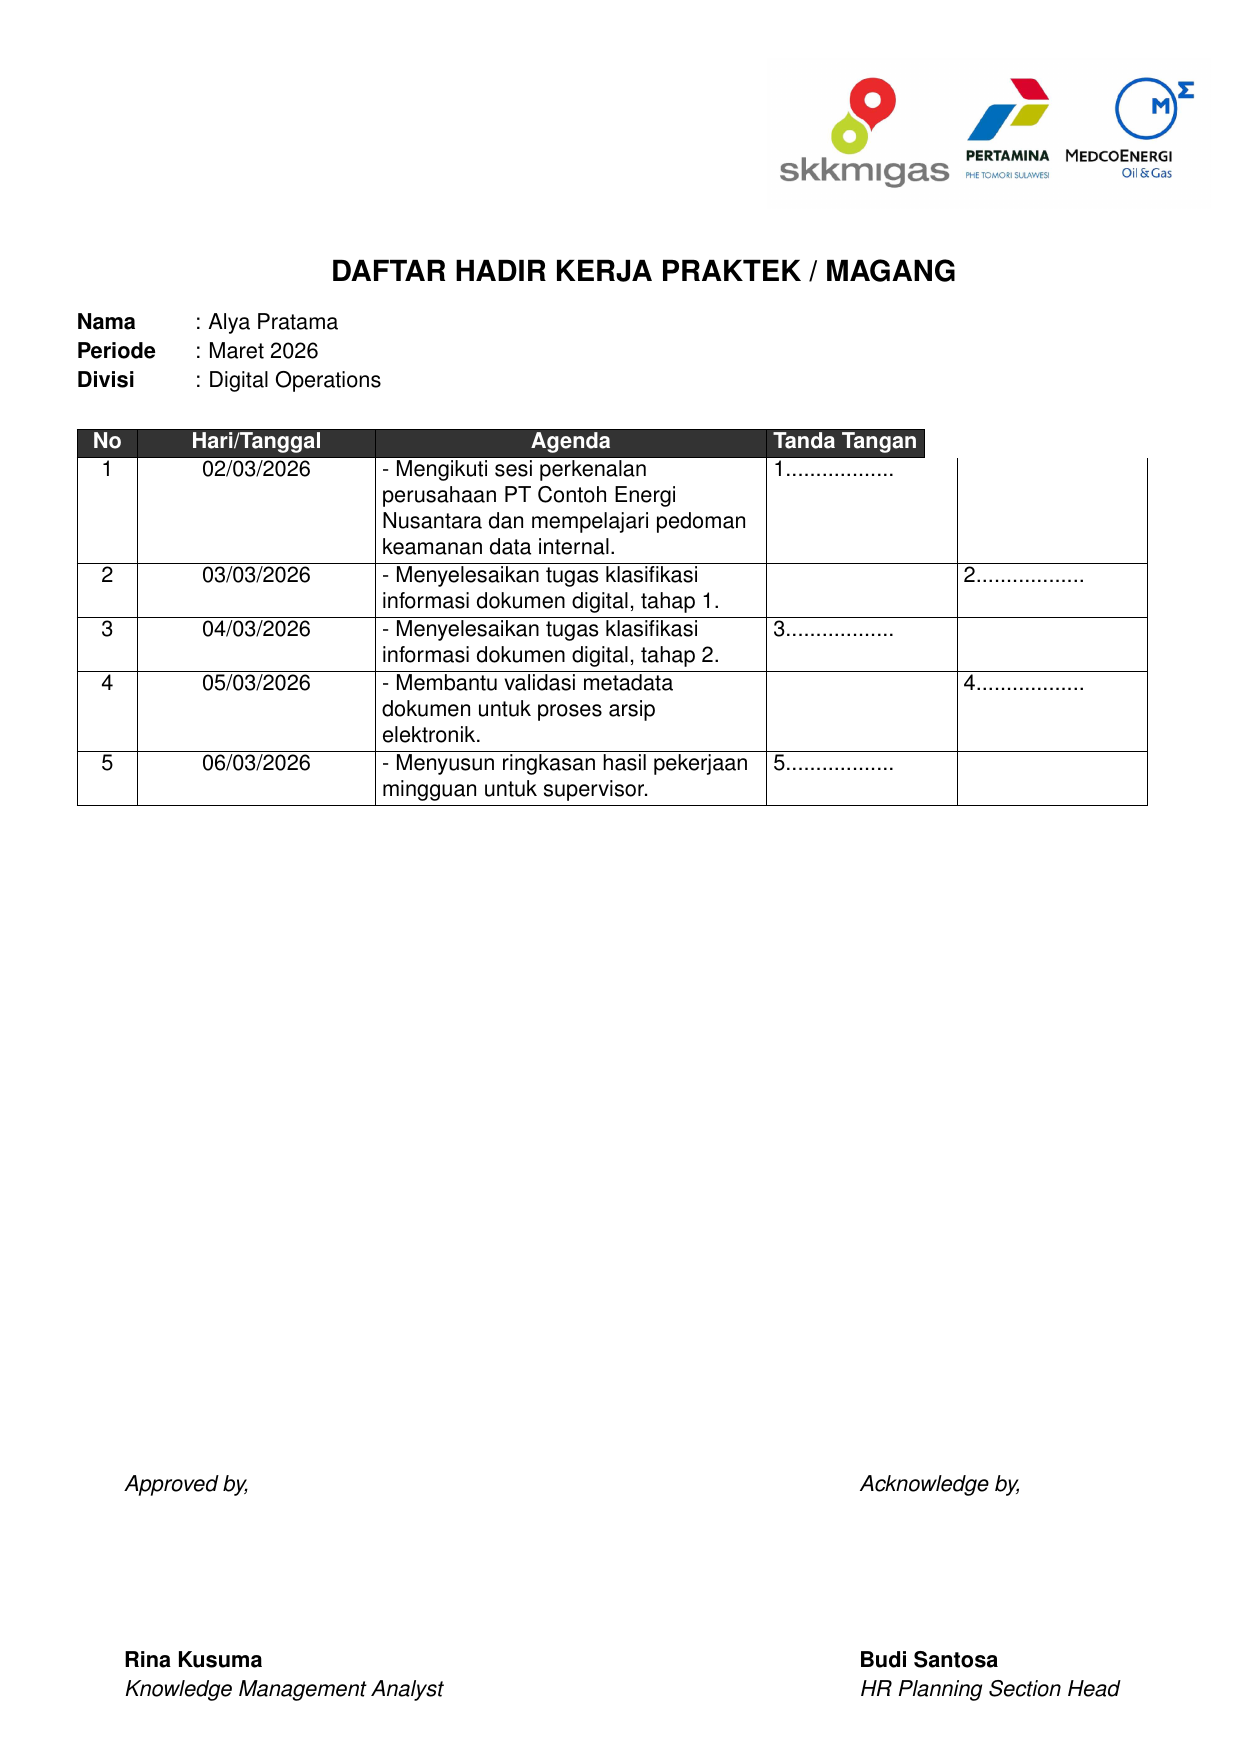
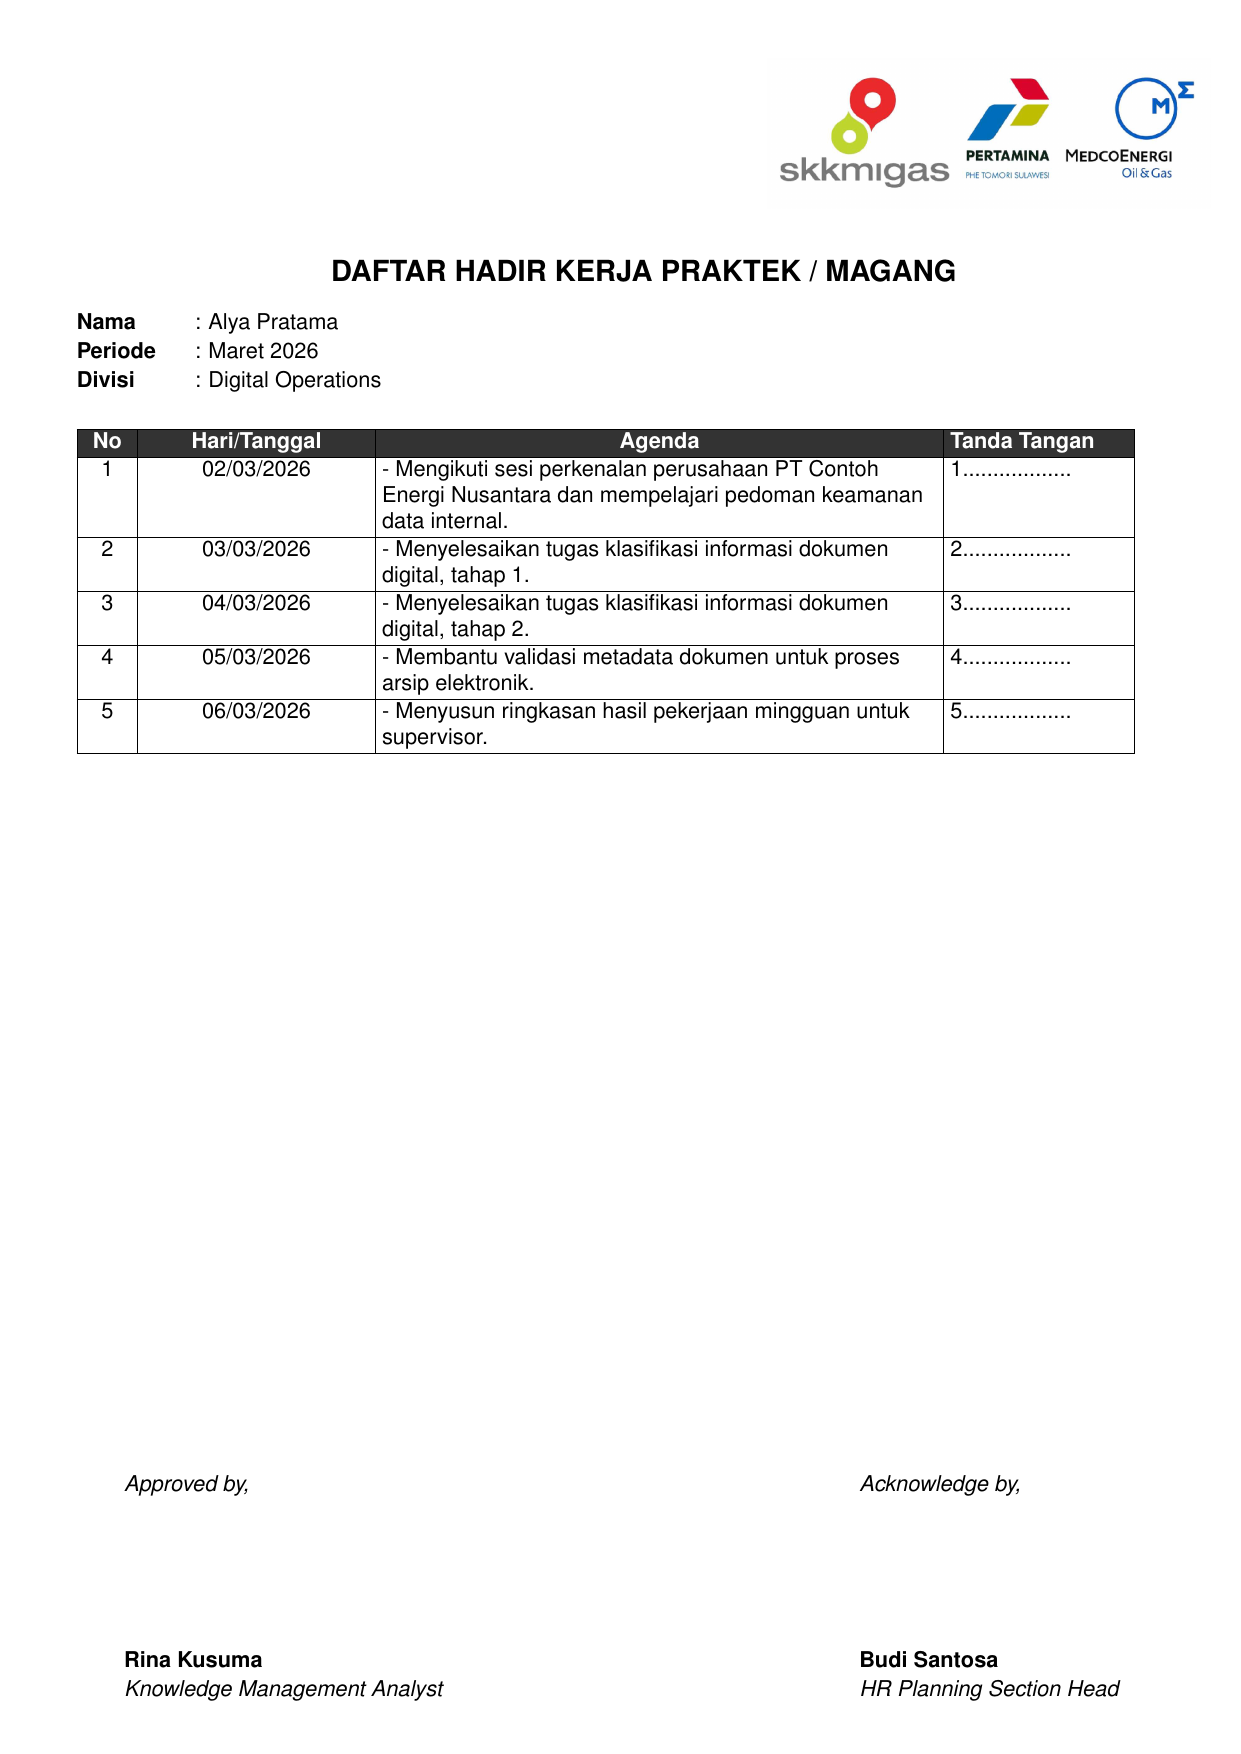
fix

diff --git a/examples/logbook.tex b/examples/logbook.tex
@@ -26,16 +26,8 @@
 \newcommand{\acknowledgeName}{Budi Santosa}
 \newcommand{\acknowledgeTitle}{HR Planning Section Head}
 
-\newcounter{signcount}
-\setcounter{signcount}{0}
 \newcommand{\entry}[3]{%
-  \stepcounter{signcount}%
-  #1 & #2 & \RaggedRight #3 &%
-  \ifodd\value{signcount}%
-    \arabic{signcount}.................. &%
-  \else
-    & \arabic{signcount}..................%
-  \fi
+  #1 & #2 & \RaggedRight #3 & #1..................
   \\ \hline
 }
 
@@ -67,8 +59,6 @@
 
 \vspace{0.15cm}
 
-\setcounter{signcount}{0}
-
 \renewcommand{\arraystretch}{1.05}
 \setlength{\tabcolsep}{3pt}
 \setlength{\LTleft}{0pt}
@@ -78,16 +68,15 @@
 	\begin{longtable}{%
 		|>{\centering\arraybackslash}m{0.8cm}%
 		|>{\centering\arraybackslash}m{3.8cm}%
-		|p{\dimexpr\textwidth-12.8cm\relax}%
-		|>{\raggedright\arraybackslash}b{3.0cm}%
-		|>{\raggedright\arraybackslash}b{3.0cm}|}
+		|p{\dimexpr\textwidth-9.8cm\relax}%
+		|>{\raggedright\arraybackslash}m{3.0cm}|}
 
 		\hline
 		\rowcolor{headerblack}
 		\textcolor{white}{\textbf{No}}               &
 		\textcolor{white}{\textbf{Hari/Tanggal}}     &
 		\centering\textcolor{white}{\textbf{Agenda}} &
-		\multicolumn{2}{c|}{\textcolor{white}{\textbf{Tanda Tangan}}} \\
+		\textcolor{white}{\textbf{Tanda Tangan}}       \\
 		\hline
 		\endfirsthead
 
@@ -96,7 +85,7 @@
 		\textcolor{white}{\textbf{No}}               &
 		\textcolor{white}{\textbf{Hari/Tanggal}}     &
 		\centering\textcolor{white}{\textbf{Agenda}} &
-		\multicolumn{2}{c|}{\textcolor{white}{\textbf{Tanda Tangan}}} \\
+		\textcolor{white}{\textbf{Tanda Tangan}}       \\
 		\hline
 		\endhead
 
